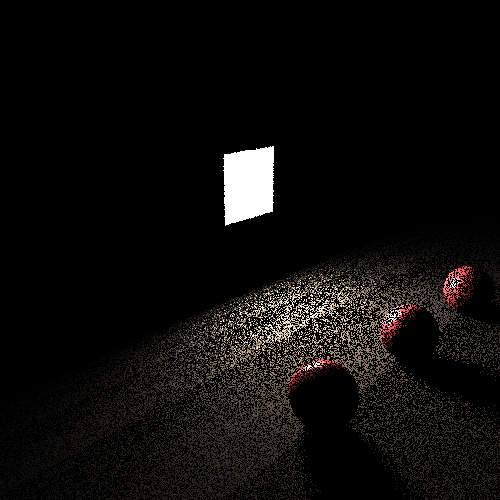
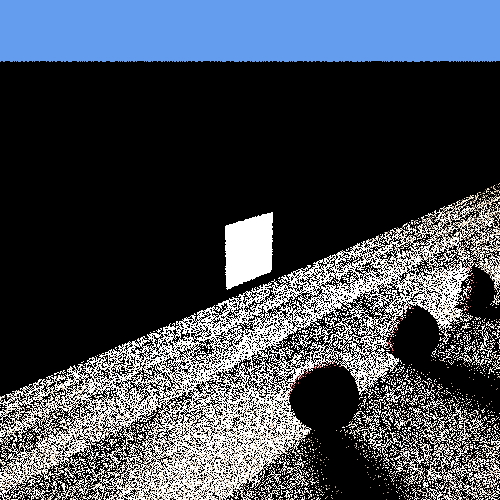
reflections sort of

diff --git a/include/BRDFTypes.h b/include/BRDFTypes.h
@@ -14,7 +14,7 @@ namespace RT
 
 		virtual Color f(const ElementIntersection& ei, const VML::Vector& wi, const VML::Vector& wo)const override;
 
-		virtual Color sampleF(const ElementIntersection& ei, const VML::Vector& wi, const VML::Vector& wo)const override;
+		virtual Color sampleF(const ElementIntersection& ei, VML::Vector& wi, const VML::Vector& wo)const override;
 
 		virtual Color rho(const ElementIntersection& ei, const VML::Vector& wi, const VML::Vector& wo)const override;
 
@@ -36,7 +36,7 @@ namespace RT
 
 		virtual Color f(const ElementIntersection& ei, const VML::Vector& wi, const VML::Vector& wo)const override;
 
-		virtual Color sampleF(const ElementIntersection& ei, const VML::Vector& wi, const VML::Vector& wo)const override;
+		virtual Color sampleF(const ElementIntersection& ei, VML::Vector& wi, const VML::Vector& wo)const override;
 
 		virtual Color rho(const ElementIntersection& ei, const VML::Vector& wi, const VML::Vector& wo)const override;
 
@@ -58,7 +58,7 @@ namespace RT
 
 		virtual Color f(const ElementIntersection& ei, const VML::Vector& wi, const VML::Vector& wo)const override;
 
-		virtual Color sampleF(const ElementIntersection& ei, const VML::Vector& wi, const VML::Vector& wo)const override;
+		virtual Color sampleF(const ElementIntersection& ei, VML::Vector& wi, const VML::Vector& wo)const override;
 
 		virtual Color rho(const ElementIntersection& ei, const VML::Vector& wi, const VML::Vector& wo)const override;
 
@@ -71,5 +71,19 @@ namespace RT
 		F32 ks;
 		// Specular exponent
 		F32 exp;
+	};
+
+	class PerfectSpecular : public BRDF
+	{
+	public:
+		PerfectSpecular(Color cr, F32 kr);
+
+		virtual ~PerfectSpecular();
+
+		virtual Color sampleF(const ElementIntersection& ei, VML::Vector& wi, const VML::Vector& wo)const override;
+
+	private:
+		Color cr;
+		F32 kr;
 	};
 }

diff --git a/src/Materials/Reflective.cpp b/src/Materials/Reflective.cpp
@@ -1,0 +1,61 @@
+#include <MaterialTypes.h>
+
+namespace RT
+{
+	Reflective::Reflective(F32 ka, F32 kd, const Color& cd, F32 ks, const Color& cs, F32 exp, const Color& cr, F32 kr) :
+		reflectiveBRDF(cr, kr), Phong(ka, kd, cd, ks, cs, exp)
+	{
+
+	}
+	
+	Reflective::~Reflective()
+	{
+
+	}
+
+	Color Reflective::shade(const ElementIntersection& ei, World& world)
+	{
+		Color color(Phong::shade(ei, world));
+
+		VML::Vector wo = ei.ray.direction().negate();
+		VML::Vector wi;
+		Color fr = reflectiveBRDF.sampleF(ei, wi, wo);
+		Ray reflectedRay(ei.rayInt.worldCoords, wi);
+
+		Color out;
+		world.traceRayColor(out, reflectedRay, ei.depth + 1);
+		color += fr * out * (ei.rayInt.normal.v3Dot(wi));
+
+		return color;
+	}
+
+	Color Reflective::areaLightShade(const ElementIntersection& ei, World& world)
+	{
+		Color color(Phong::shade(ei, world));
+
+		VML::Vector wo = ei.ray.direction().negate();
+		VML::Vector wi;
+		Color fr = reflectiveBRDF.sampleF(ei, wi, wo);
+		Ray reflectedRay(ei.rayInt.worldCoords, wi);
+
+		Color out;
+		world.traceRayColor(out, reflectedRay, ei.depth + 1);
+		color += fr * out * (ei.rayInt.normal.v3Dot(wi));
+
+		return color;
+	}
+
+
+
+
+	PMaterial LoadReflectiveMaterial(std::stringstream& ss, World& world)
+	{
+		F32 ka, kd, ks, exp, kr;
+		Color cd, cs, cr;
+		ss >> ka >> kd >> cd.r >> cd.g >> cd.b >> cd.a
+			>> ks >> cs.r >> cs.g >> cs.b >> cs.a >> exp
+			>> kr >> cr.r >> cr.g >> cr.b >> cr.a;
+
+		return std::make_shared<Reflective>(ka, kd, cd, ks, cs, exp, cr, kr);
+	}
+}

diff --git a/include/BRDF.h b/include/BRDF.h
@@ -19,23 +19,23 @@ namespace RT
 		// @param ei - The intersection.
 		// @param wi - The incoming direction.
 		// @param wo - The outgoing direction.
-		virtual Color f(const ElementIntersection& ei, const VML::Vector& wi, const VML::Vector& wo)const = 0;
+		virtual Color f(const ElementIntersection& ei, const VML::Vector& wi, const VML::Vector& wo)const;
 
 		// Samples the BRDF.
 		// @param ei - The intersection.
 		// @param wi - The incoming direction.
 		// @param wo - The outgoing direction.
-		virtual Color sampleF(const ElementIntersection& ei, const VML::Vector& wi, const VML::Vector& wo)const = 0;
+		virtual Color sampleF(const ElementIntersection& ei, VML::Vector& wi, const VML::Vector& wo)const;
 
 		// Calculates the bihemispherical reflectance.
 		// @param ei - The intersection.
 		// @param wi - The incoming direction.
 		// @param wo - The outgoing direction.
-		virtual Color rho(const ElementIntersection& ei, const VML::Vector& wi, const VML::Vector& wo)const = 0;
+		virtual Color rho(const ElementIntersection& ei, const VML::Vector& wi, const VML::Vector& wo)const;
 
 		// Calculates the bihemispherical reflectance.
 		// @param ei - The intersection.
 		// @param wo - The outgoing direction.
-		virtual Color rho(const ElementIntersection& ei, const VML::Vector& wo)const = 0;
+		virtual Color rho(const ElementIntersection& ei, const VML::Vector& wo)const;
 	};
 }

diff --git a/include/MaterialTypes.h b/include/MaterialTypes.h
@@ -88,4 +88,19 @@ namespace RT
 		F32 ls;
 	};
 	PMaterial LoadEmissiveMaterial(std::stringstream& ss, World& world);
+
+	class Reflective : public Phong
+	{
+	public:
+		Reflective(F32 ka, F32 kd, const Color& cd, F32 ks, const Color& cs, F32 exp, const Color& cr, F32 kr);
+
+		virtual ~Reflective();
+
+		virtual Color shade(const ElementIntersection& ei, World& world)override;
+		virtual Color areaLightShade(const ElementIntersection& ei, World& world)override;
+
+	private:
+		PerfectSpecular reflectiveBRDF;
+	};
+	PMaterial LoadReflectiveMaterial(std::stringstream& ss, World& world);
 }

diff --git a/src/BRDFs/BRDF.cpp b/src/BRDFs/BRDF.cpp
@@ -11,4 +11,24 @@ namespace RT
 	{
 
 	}
+
+	Color BRDF::f(const ElementIntersection& ei, const VML::Vector& wi, const VML::Vector& wo)const
+	{
+		return Color();
+	}
+
+	Color BRDF::sampleF(const ElementIntersection& ei, VML::Vector& wi, const VML::Vector& wo)const
+	{
+		return Color();
+	}
+
+	Color BRDF::rho(const ElementIntersection& ei, const VML::Vector& wi, const VML::Vector& wo)const
+	{
+		return Color();
+	}
+
+	Color BRDF::rho(const ElementIntersection& ei, const VML::Vector& wo)const
+	{
+		return Color();
+	}
 }

diff --git a/src/World/World.cpp b/src/World/World.cpp
@@ -43,14 +43,22 @@ namespace RT
 	}
 
 
-	bool World::traceRayColor(Color& out, const Ray& ray)
+	bool World::traceRayColor(Color& out, const Ray& ray, I32 depth)
 	{
+		if (depth > 7)
+		{
+			out = Color();
+			return true;
+		}
+
 		ElementIntersection hit;
 		traceRayIntersections(hit, ray);
 
 		if (hit.bHit)
 		{
-			out = hit.element->material->areaLightShade(hit, *this);
+			hit.depth = depth;
+
+			out = hit.element->material->shade(hit, *this);
 			return true;
 		}
 

diff --git a/src/BRDFs/PerfectSpecular.cpp b/src/BRDFs/PerfectSpecular.cpp
@@ -1,0 +1,22 @@
+#include <BRDFTypes.h>
+
+namespace RT
+{
+	PerfectSpecular::PerfectSpecular(Color cr, F32 kr) : cr(cr), kr(kr)
+	{
+
+	}
+
+	PerfectSpecular::~PerfectSpecular()
+	{
+
+	}
+
+	Color PerfectSpecular::sampleF(const ElementIntersection& ei, VML::Vector& wi, const VML::Vector& wo)const
+	{
+		F32 nDOTwo = ei.rayInt.normal.v3Dot(wo);
+		wi = VML::Vector(wo).negate() + (ei.rayInt.normal * nDOTwo * 2.0f);
+
+		return (cr * kr / (ei.rayInt.normal.v3Dot(wi)));
+	}
+}

diff --git a/include/World.h b/include/World.h
@@ -16,6 +16,7 @@ namespace RT
 		PRenderable element;
 		RayIntersection rayInt;
 		Ray ray;
+		I32 depth;
 	};
 
 
@@ -37,7 +38,7 @@ namespace RT
 		void setCamera(PCamera camera);
 		PCamera getCamera();
 
-		bool traceRayColor(Color& out, const Ray& ray);
+		bool traceRayColor(Color& out, const Ray& ray, I32 depth = 0);
 
 		void traceRayIntersections(ElementIntersection& out, const Ray& ray)const;
 		void traceRayIntersections(bool& bHit, F32 d, const Ray& ray)const;

diff --git a/src/Materials/Material.cpp b/src/Materials/Material.cpp
@@ -35,7 +35,8 @@ namespace RT
 		{ "matte", LoadMatteMaterial },
 		{ "svmatte", LoadSVMatteMaterial },
 		{ "phong", LoadPhongMaterial },
-		{ "emissive", LoadEmissiveMaterial }
+		{ "emissive", LoadEmissiveMaterial },
+		{ "reflective", LoadReflectiveMaterial }
 	};
 
 	PMaterial LoadMaterial(const std::map<std::string, std::string>& params, World& world)

diff --git a/src/BRDFs/SVLambertian.cpp b/src/BRDFs/SVLambertian.cpp
@@ -18,7 +18,7 @@ namespace RT
 		return cd * kd * (F32)INV_PI;
 	}
 
-	Color SVLambertian::sampleF(const ElementIntersection& ei, const VML::Vector& wi, const VML::Vector& wo)const
+	Color SVLambertian::sampleF(const ElementIntersection& ei, VML::Vector& wi, const VML::Vector& wo)const
 	{
 		return Color();
 	}

diff --git a/src/BRDFs/Lambertian.cpp b/src/BRDFs/Lambertian.cpp
@@ -13,7 +13,7 @@ namespace RT
 		return cd * kd * (F32)INV_PI;
 	}
 
-	Color Lambertian::sampleF(const ElementIntersection& ei, const VML::Vector& wi, const VML::Vector& wo)const
+	Color Lambertian::sampleF(const ElementIntersection& ei, VML::Vector& wi, const VML::Vector& wo)const
 	{
 		return Color();
 	}

diff --git a/src/BRDFs/GlossySpecular.cpp b/src/BRDFs/GlossySpecular.cpp
@@ -28,7 +28,7 @@ namespace RT
 		return color;
 	}
 
-	Color GlossySpecular::sampleF(const ElementIntersection& ei, const VML::Vector& wi, const VML::Vector& wo)const
+	Color GlossySpecular::sampleF(const ElementIntersection& ei, VML::Vector& wi, const VML::Vector& wo)const
 	{
 		return Color();
 	}
